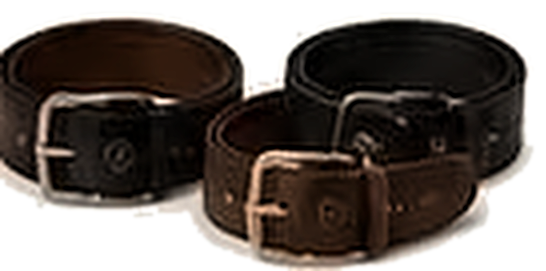
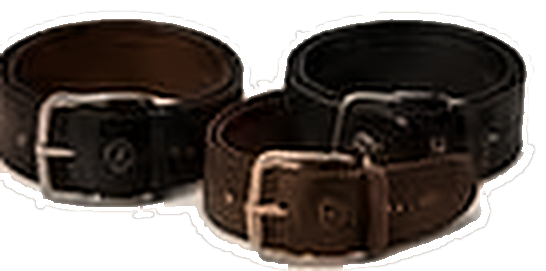
Limpar fotos dos acessorios e converter o site para paleta 100% azul escuro
Aplica a mesma limpeza de borda (protegendo o miolo da peca) em todos
os 7 acessorios, removendo manchas brancas de fundo que restavam em
alguns deles (meia, pochete, tag). Substitui toda cor bege/branca do
site por tons de azul marinho: fundo das secoes, cards de produto e
acessorios, cabecalho, botao de voltar ao topo e estados de hover
agora usam apenas a paleta navy + dourado.

diff --git a/styles.css b/styles.css
@@ -1,10 +1,10 @@
 :root {
   --navy: #040D1C;
   --navy-2: #0B1A2E;
-  --beige: #E8E1D2;
-  --beige-2: #DCD2BC;
-  --ink: #201C14;
-  --ink-soft: #5C5648;
+  --card: #142438;
+  --card-2: #1B2E45;
+  --ink: #F1EEE7;
+  --ink-soft: rgba(241,238,231,0.62);
   --accent: #A88B5C;
   --font-display: 'Cormorant Garamond', serif;
   --font-body: 'Jost', sans-serif;
@@ -15,7 +15,7 @@ html { scroll-behavior: smooth; }
 
 body {
   margin: 0;
-  background: var(--beige);
+  background: var(--navy);
   color: var(--ink);
   font-family: var(--font-body);
   font-weight: 300;
@@ -30,12 +30,12 @@ h1, h2, h3, h4 {
   font-family: var(--font-display);
   font-weight: 400;
   margin: 0;
-  color: var(--navy);
+  color: var(--ink);
   letter-spacing: 0.005em;
 }
 h2 { font-size: clamp(2.1rem, 3.8vw, 3rem); font-weight: 300; }
 h2 em { font-style: italic; }
-h3 { font-size: 1.4rem; font-weight: 500; margin: 16px 0 8px; }
+h3 { font-size: 1.4rem; font-weight: 500; margin: 16px 0 8px; color: var(--ink); }
 
 p { color: var(--ink-soft); margin: 0 0 16px; font-weight: 300; }
 
@@ -58,7 +58,7 @@ p { color: var(--ink-soft); margin: 0 0 16px; font-weight: 300; }
   background: none;
   border: none;
   padding: 0;
-  color: var(--navy);
+  color: var(--ink);
   font-family: var(--font-body);
   font-weight: 400;
   font-size: 0.82rem;
@@ -66,7 +66,7 @@ p { color: var(--ink-soft); margin: 0 0 16px; font-weight: 300; }
   text-transform: uppercase;
   text-decoration: none;
   cursor: pointer;
-  border-bottom: 1px solid var(--navy);
+  border-bottom: 1px solid rgba(241,238,231,0.5);
   padding-bottom: 3px;
   transition: opacity 0.3s ease, gap 0.3s ease;
 }
@@ -98,9 +98,9 @@ p { color: var(--ink-soft); margin: 0 0 16px; font-weight: 300; }
 }
 .site-header.scrolled {
   padding: 16px 5vw;
-  background: rgba(232, 225, 210, 0.92);
+  background: rgba(4, 13, 28, 0.85);
   backdrop-filter: blur(12px);
-  box-shadow: 0 1px 0 rgba(4,13,28,0.1);
+  box-shadow: 0 1px 0 rgba(255,255,255,0.06);
 }
 
 .header-inner { width: 100%; display: flex; align-items: center; justify-content: space-between; }
@@ -120,13 +120,12 @@ p { color: var(--ink-soft); margin: 0 0 16px; font-weight: 300; }
   padding: 4px 0;
   transition: color 0.3s ease;
 }
-.site-header.scrolled .nav-links a { color: var(--navy); }
 .nav-links a::after {
   content: '';
   position: absolute;
   left: 0; bottom: -2px;
   width: 0; height: 1px;
-  background: currentColor;
+  background: var(--accent);
   transition: width 0.3s ease;
 }
 .nav-links a:hover::after { width: 100%; }
@@ -142,7 +141,6 @@ p { color: var(--ink-soft); margin: 0 0 16px; font-weight: 300; }
   cursor: pointer;
 }
 .nav-toggle span { width: 100%; height: 1px; background: #fff; transition: transform 0.3s ease, opacity 0.3s ease, background 0.3s ease; }
-.site-header.scrolled .nav-toggle span { background: var(--navy); }
 
 /* Hero - left-aligned lockup with large blurred crest on the right */
 .hero {
@@ -290,7 +288,7 @@ p { color: var(--ink-soft); margin: 0 0 16px; font-weight: 300; }
 }
 
 /* Coleção grid */
-.colecao, .acessorios { padding: clamp(70px, 9vw, 110px) 5vw clamp(90px, 12vw, 140px); background: var(--beige); }
+.colecao, .acessorios { padding: clamp(70px, 9vw, 110px) 5vw clamp(90px, 12vw, 140px); background: var(--navy-2); }
 .colecao-heading { text-align: center; max-width: 560px; margin: 0 auto clamp(50px, 7vw, 80px); }
 
 .produtos-grid {
@@ -305,7 +303,7 @@ p { color: var(--ink-soft); margin: 0 0 16px; font-weight: 300; }
   aspect-ratio: 3/4;
   overflow: hidden;
   border-radius: 2px;
-  background: var(--beige-2);
+  background: var(--card);
   margin-bottom: 20px;
   padding: 22px;
   box-sizing: border-box;
@@ -315,7 +313,7 @@ p { color: var(--ink-soft); margin: 0 0 16px; font-weight: 300; }
 
 .produto-card-tag { font-size: 0.68rem; letter-spacing: 0.16em; text-transform: uppercase; color: var(--accent); }
 .produto-card p { font-size: 0.85rem; margin-bottom: 10px; }
-.produto-card-price { font-family: var(--font-display); font-size: 1.3rem; color: var(--navy); margin-bottom: 16px; }
+.produto-card-price { font-family: var(--font-display); font-size: 1.3rem; color: var(--ink); margin-bottom: 16px; }
 
 .produto-card-row { margin-bottom: 16px; }
 .produto-card-label {
@@ -326,7 +324,7 @@ p { color: var(--ink-soft); margin: 0 0 16px; font-weight: 300; }
   color: var(--ink-soft);
   margin-bottom: 10px;
 }
-.produto-card-label em { font-style: normal; color: var(--navy); }
+.produto-card-label em { font-style: normal; color: var(--ink); }
 
 .swatch-row { display: flex; gap: 9px; }
 .swatch {
@@ -334,19 +332,19 @@ p { color: var(--ink-soft); margin: 0 0 16px; font-weight: 300; }
   border-radius: 50%;
   background: var(--swatch);
   border: none;
-  box-shadow: inset 0 0 0 1px rgba(4,13,28,0.18);
+  box-shadow: inset 0 0 0 1px rgba(255,255,255,0.25);
   cursor: pointer;
   position: relative;
   transition: transform 0.25s ease;
 }
 .swatch:hover { transform: translateY(-2px); }
-.swatch.active::after { content: ''; position: absolute; inset: -4px; border: 1px solid var(--navy); border-radius: 50%; }
+.swatch.active::after { content: ''; position: absolute; inset: -4px; border: 1px solid var(--accent); border-radius: 50%; }
 
 .size-row { display: flex; gap: 8px; }
 .size-chip {
   width: 30px; height: 30px;
   border-radius: 50%;
-  border: 1px solid rgba(4,13,28,0.22);
+  border: 1px solid rgba(255,255,255,0.28);
   background: transparent;
   color: var(--ink-soft);
   font-family: var(--font-body);
@@ -354,39 +352,39 @@ p { color: var(--ink-soft); margin: 0 0 16px; font-weight: 300; }
   cursor: pointer;
   transition: background 0.2s ease, color 0.2s ease, border-color 0.2s ease;
 }
-.size-chip:hover, .size-chip.active { background: var(--navy); color: #fff; border-color: var(--navy); }
+.size-chip:hover, .size-chip.active { background: var(--accent); color: var(--navy); border-color: var(--accent); }
 
 .produto-card-btn {
   display: block;
   text-align: center;
   margin-top: auto;
   padding: 13px 20px;
-  border: 1px solid var(--navy);
-  color: var(--navy);
+  border: 1px solid rgba(255,255,255,0.4);
+  color: var(--ink);
   text-decoration: none;
   font-size: 0.76rem;
   letter-spacing: 0.08em;
   text-transform: uppercase;
-  transition: background 0.25s ease, color 0.25s ease;
+  transition: background 0.25s ease, color 0.25s ease, border-color 0.25s ease;
 }
-.produto-card-btn:hover { background: var(--navy); color: #fff; }
+.produto-card-btn:hover { background: var(--accent); color: var(--navy); border-color: var(--accent); }
 
 /* Acessórios */
 .acessorios-grid { display: grid; grid-template-columns: repeat(4, 1fr); gap: 24px; max-width: 1200px; margin: 0 auto; }
 .acessorio {
-  background: var(--beige-2);
+  background: var(--card);
   padding: 24px 20px 28px;
   text-align: center;
   text-decoration: none;
   display: flex;
   flex-direction: column;
   align-items: center;
-  border: 1px solid rgba(4,13,28,0.1);
+  border: 1px solid rgba(255,255,255,0.08);
   transition: border-color 0.3s ease, transform 0.3s ease;
 }
-.acessorio:hover { border-color: var(--navy); transform: translateY(-4px); }
+.acessorio:hover { border-color: var(--accent); transform: translateY(-4px); }
 .acessorio img { width: 100%; aspect-ratio: 1.3/1; object-fit: contain; margin-bottom: 18px; }
-.acessorio-name { font-family: var(--font-display); font-size: 1.1rem; color: var(--navy); margin-bottom: 6px; }
+.acessorio-name { font-family: var(--font-display); font-size: 1.1rem; color: var(--ink); margin-bottom: 6px; }
 .acessorio-price { font-size: 0.78rem; letter-spacing: 0.03em; color: var(--ink-soft); }
 
 /* Contact */
@@ -440,13 +438,13 @@ p { color: var(--ink-soft); margin: 0 0 16px; font-weight: 300; }
   right: 26px; bottom: 92px;
   width: 42px; height: 42px;
   border-radius: 50%;
-  background: var(--navy);
-  color: #fff;
+  background: var(--accent);
+  color: var(--navy);
   border: none;
   font-size: 1.1rem;
   font-weight: 300;
   cursor: pointer;
-  box-shadow: 0 12px 24px rgba(4,13,28,0.3);
+  box-shadow: 0 12px 24px rgba(0,0,0,0.4);
   opacity: 0;
   transform: translateY(16px);
   pointer-events: none;
